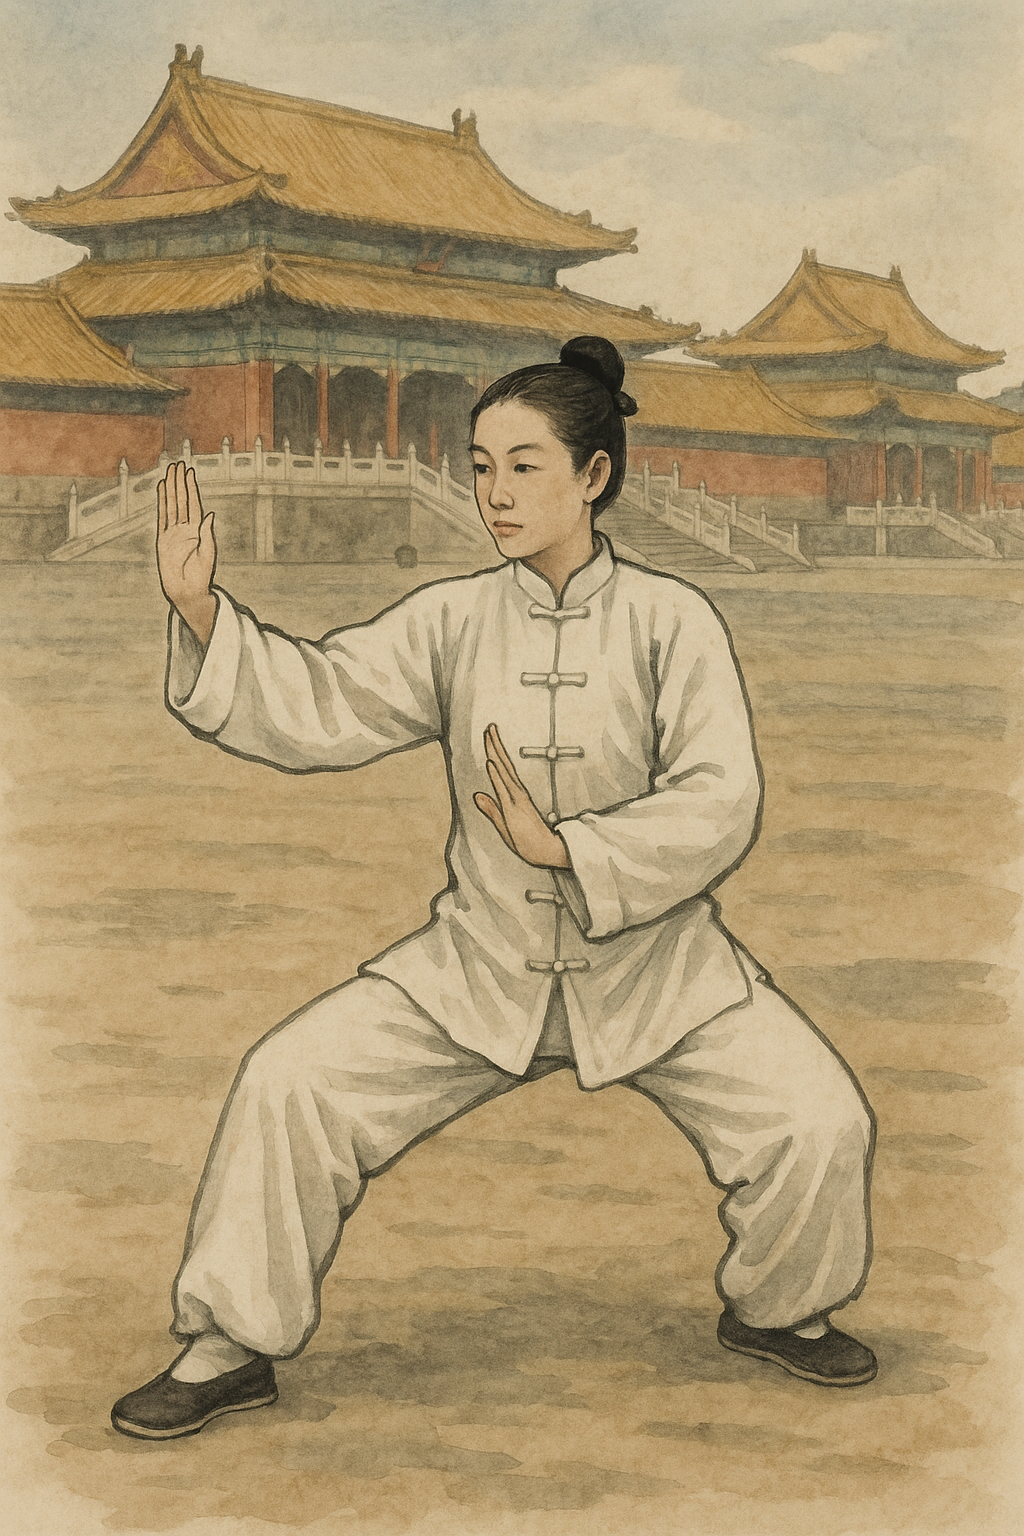
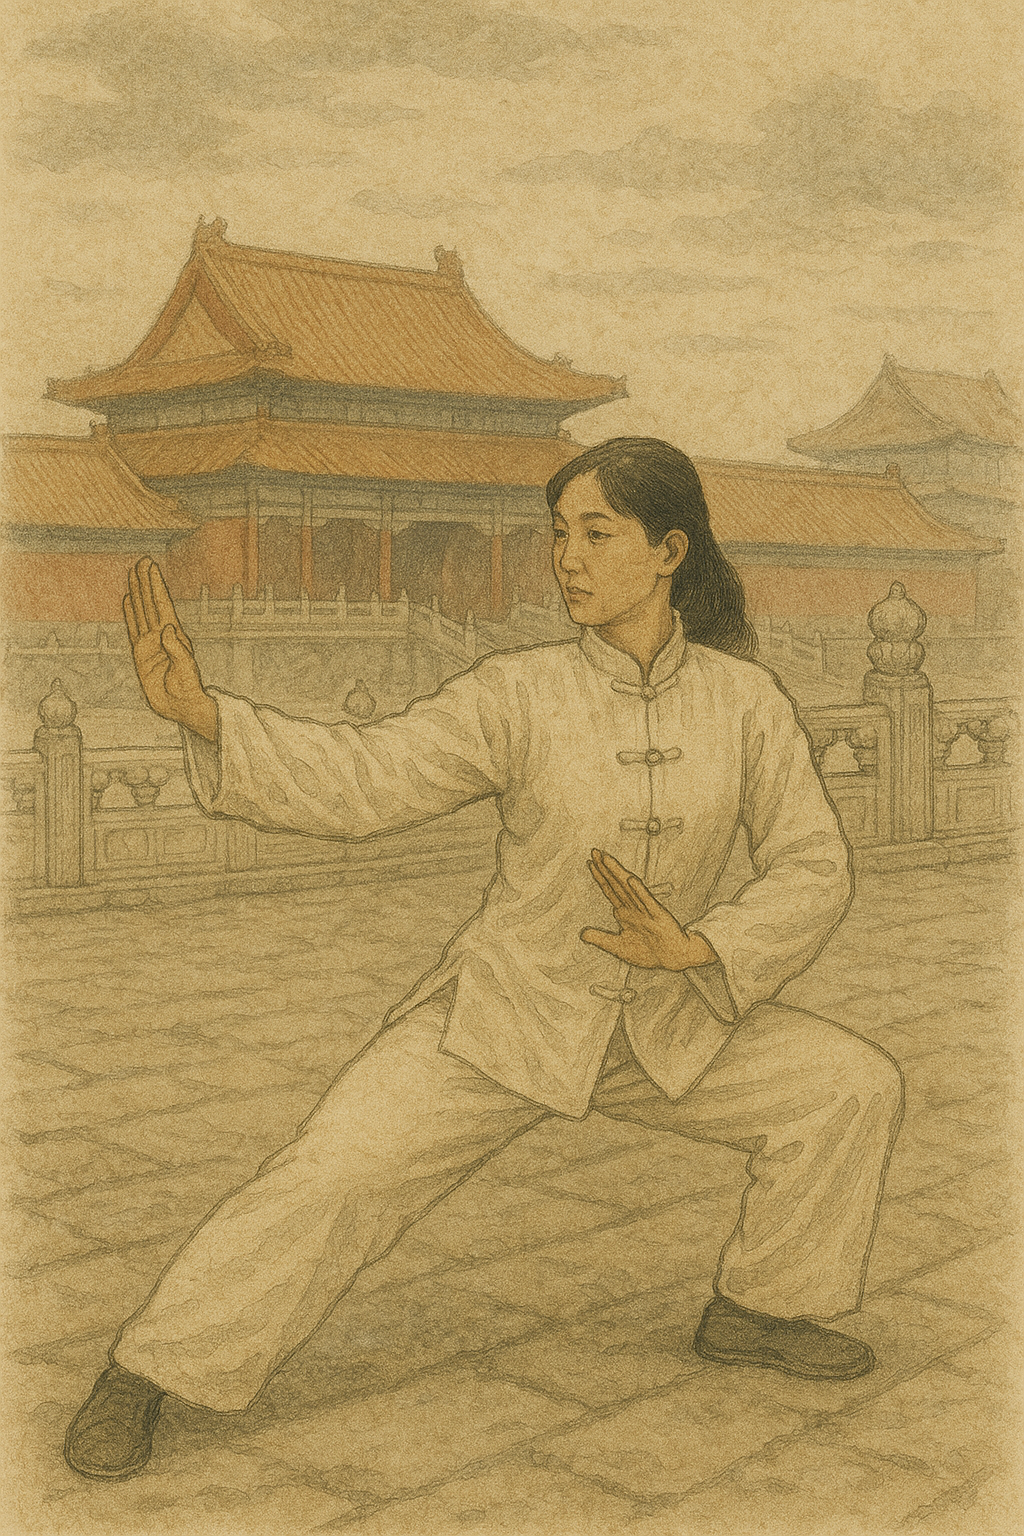
bug fixes and image changes

diff --git a/src/components/HoverPanels.tsx b/src/components/HoverPanels.tsx
@@ -25,9 +25,11 @@ export default function HoverPanels({
   const prefersReducedMotion = useRef(false);
 
   useEffect(() => {
-    prefersReducedMotion.current = window.matchMedia(
-      "(prefers-reduced-motion: reduce)"
-    ).matches;
+    if (typeof window !== "undefined") {
+      prefersReducedMotion.current = window.matchMedia(
+        "(prefers-reduced-motion: reduce)"
+      ).matches;
+    }
   }, []);
 
   const togglePanel = (id: string) => {
@@ -109,28 +111,32 @@ export default function HoverPanels({
               )}
             />
 
-            <div className="absolute inset-0 bg-black/40" />
+            <div className="absolute inset-0 bg-brand-primary/40" />
 
-            <div className="relative z-10 flex flex-col justify-start items-center h-full p-4 text-center text-white">
-              <h3 className="text-xl font-bold">{panel.title}</h3>
+            <div className="relative z-10 flex flex-col justify-start items-center h-full p-4 text-center text-brand-light">
+              <div className="bg-brand-primary/5 backdrop-blur-sm rounded-xl px-4 py-2 max-w-md">
+                <h3 className="text-4xl font-bold font-logo">{panel.title}</h3>
 
-              <div
-                id={`${panel.id}-content`}
-                ref={(el) => {
-                  contentRefs.current[panel.id] = el;
-                }}
-                className="overflow-hidden"
-                style={{ maxHeight: 0, opacity: 0, marginTop: 0 }}
-                aria-live="polite"
-              >
-                {panel.subtitle && (
-                  <p className="text-lg font-medium">{panel.subtitle}</p>
-                )}
-                {panel.description && (
-                  <p className="mt-2 text-sm sm:text-base max-w-md">
-                    {panel.description}
-                  </p>
-                )}
+                <div
+                  id={`${panel.id}-content`}
+                  ref={(el) => {
+                    contentRefs.current[panel.id] = el;
+                  }}
+                  className="overflow-hidden"
+                  style={{ maxHeight: 0, opacity: 0, marginTop: 0 }}
+                  aria-live="polite"
+                >
+                  {panel.subtitle && (
+                    <p className="text-xl font-medium mt-2 font-heading">
+                      {panel.subtitle}
+                    </p>
+                  )}
+                  {panel.description && (
+                    <p className="mt-2 text-body sm:text-sm text-left font-body">
+                      {panel.description}
+                    </p>
+                  )}
+                </div>
               </div>
             </div>
           </div>

diff --git a/src/sections/Styles.tsx b/src/sections/Styles.tsx
@@ -11,22 +11,15 @@ export default function Styles() {
         "Won Hop Loong Chuan is an eclectic mix of Northern and Southern Chinese styles, which we refer to as 'Central Chinese'.",
       color: {
         base: "bg-brand-accent/40",
-        hover: "bg-brand-accent/15",
+        hover: "bg-brand-accent/5",
       },
       children: (
         <div className="relative w-full h-full">
           <img
-            src="/luoyang-mountains.png"
+            src="/kung-fu-in-mountains.png"
             alt="Mountains"
             className="absolute inset-0 w-full h-full object-cover"
           />
-          <div className="absolute bottom-0 left-0 right-0 flex justify-center">
-            <img
-              src="/kung-fu.png"
-              alt="Kung Fu"
-              className="h-96 w-auto object-contain"
-            />
-          </div>
         </div>
       ),
     },
@@ -38,22 +31,15 @@ export default function Styles() {
         "The style of karate we teach comes from the small fishing village of Tomari, Okinawa.",
       color: {
         base: "bg-brand-secondary/40",
-        hover: "bg-brand-secondary/15",
+        hover: "bg-brand-secondary/5",
       },
       children: (
         <div className="relative w-full h-full">
           <img
-            src="/tomari-beach.png"
+            src="/karate-in-tomari-2.png"
             alt="Rocky Beach"
             className="absolute inset-0 w-full h-full object-cover"
           />
-          <div className="absolute bottom-0 left-0 right-0 flex justify-center">
-            <img
-              src="/karate.png"
-              alt="Karate"
-              className="h-96 w-auto object-contain"
-            />
-          </div>
         </div>
       ),
     },
@@ -64,22 +50,15 @@ export default function Styles() {
       description: "Hong Kong branch of the Northern Wu Style Ta'i Chi Chuan.",
       color: {
         base: "bg-brand-starkAccent/40",
-        hover: "bg-brand-starkAccent/15",
+        hover: "bg-brand-starkAccent/5",
       },
       children: (
         <div className="relative w-full h-full">
           <img
-            src="/forbidden-city.png"
+            src="/tai-chi-in-forbidden-city.png"
             alt="Forbidden City"
             className="absolute inset-0 w-full h-full object-cover"
           />
-          <div className="absolute bottom-0 left-0 right-0 flex justify-center">
-            <img
-              src="/tai-chi.png"
-              alt="T'ai Chi"
-              className="h-96 w-auto object-contain"
-            />
-          </div>
         </div>
       ),
     },

diff --git a/src/sections/_Section.tsx b/src/sections/_Section.tsx
@@ -21,7 +21,7 @@ export default function Section({
   className = "",
 }: SectionProps) {
   return (
-    <section id={id} className={`relative py-8 px-4 ${className}`}>
+    <section id={id} className={`relative py-18 px-4 ${className}`}>
       <div className={fullWidth ? "" : "mx-auto max-w-3xl"}>
         {title && (
           <h2 className="text-2xl font-body text-left text-brand-accent font-bold [font-variant:small-caps]">